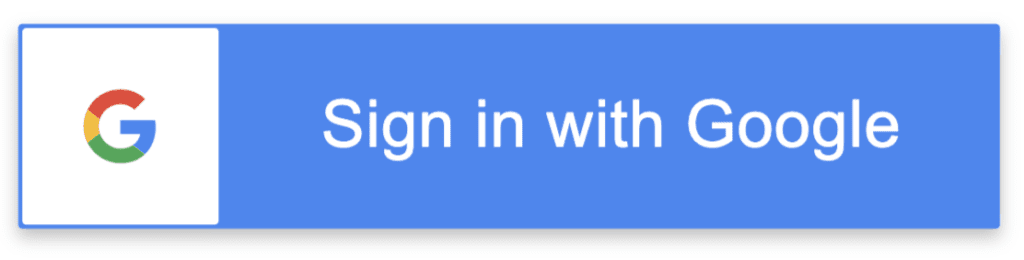
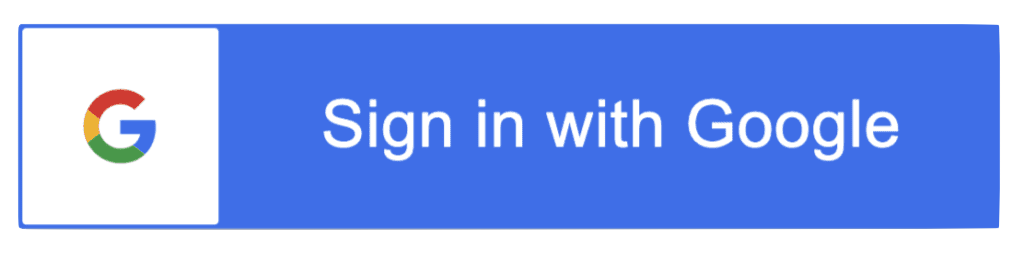
Added tentative theme to frontend

Changed region(s): [[0.0, 0.1538, 1.0, 0.9538], [0.0312, 0.0615, 0.9688, 0.0923]]

diff --git a/app/templates/signin.html b/app/templates/signin.html
@@ -1,12 +1,90 @@
-<html>
-    <body style="text-align: center;height:100%;background-color: #4285F4;">
+<!DOCTYPE html>
+<html lang="en">
+<head>
+    <meta charset="UTF-8">
+    <meta name="viewport" content="width=device-width, initial-scale=1.0">
+    <title>Task Management</title>
+    <style>
+        body {
+            font-family: Arial, sans-serif;
+            background-color: #000000;
+            color: #ffffff;
+            margin: 0;
+            padding: 0;
+            display: flex;
+            justify-content: center;
+            align-items: center;
+            height: 100vh;
+        }
 
-        <h1 style="margin-top: 10%;">
-            Hi {{ name }}!!!<br>Welcome to Google Suite Task Manager
-        </h1>
-        <a href='/logout'><button>Logout</button></a>        
-        <h1 style="margin-top: 12%;">
-            Team UMBREON
-        </h1>
-    </body>
+        .container {
+            text-align: center;
+        }
+
+        h1 {
+            font-size: 2.5rem;
+            margin-bottom: 30px;
+        }
+
+        .nav-button {
+            background-color: #ffc700;
+            color: #000000;
+            border: none;
+            padding: 15px 30px;
+            font-size: 1.2rem;
+            border-radius: 5px;
+            cursor: pointer;
+            transition: background-color 0.3s ease;
+            margin: 0 10px; 
+            text-decoration: none;
+            display: inline-block;
+        }
+
+            .nav-button:hover {
+                background-color: #ffc800;
+            }
+
+        img {
+            width: 250px;
+            vertical-align: middle;
+        }
+
+        .yellow-bar-top {
+            background-color: #ffd700;
+            height: 10px;
+            width: 100%;
+            position: absolute;
+            top: 50px;
+            left: 0;
+        }
+
+        .yellow-bar-bottom {
+            background-color: #ffd700;
+            height: 10px;
+            width: 100%;
+            position: absolute;
+            bottom: 50px;
+        }
+
+        .bottom-image {
+            position: absolute;
+            bottom: 0px;
+            left: 95%;
+            transform: translateX(-50%);
+        }
+    </style>
+</head>
+<body>
+    <div class="yellow-bar-top"></div>
+    <div class="container">
+        <h1 style="margin-top: 0%">
+            Google Suite Task Manager<br>
+            Welcome {{ name }}.
+        </h1><br><br><br>
+        <a href='/protected_area' class="nav-button">Task Dashboard</a>
+        <a href='/logout' class="nav-button">Logout</a>
+    </div>
+    <img src="umbreon.png" alt="umbreon" class="bottom-image">
+    <div class="yellow-bar-bottom"></div>
+</body>
 </html>

diff --git a/app/templates/index.html b/app/templates/index.html
@@ -1,12 +1,80 @@
-<html>
-    <body style="text-align: center;height:100%;background-color: #4285F4;">
+<!DOCTYPE html>
+<html lang="en">
+<head>
+    <meta charset="UTF-8">
+    <meta name="viewport" content="width=device-width, initial-scale=1.0">
+    <title>Task Management</title>
+    <style>
+        body {
+            font-family: Arial, sans-serif;
+            background-color: #000000;
+            color: #ffffff;
+            margin: 0;
+            padding: 0;
+            display: flex;
+            justify-content: center;
+            align-items: center;
+            height: 100vh;
+        }
 
-        <h1 style="margin-top: 10%;">
-            Hi !!!<br>Sign In to Google Suite Task Manager
-        </h1>
-        <a href='/login'><button style="margin-top: 5%;"><img src="signin.png" alt="Login with Google"></button></a>
-        <h1 style="margin-top: 12%;">
-            Team UMBREON
-        </h1>
-    </body>
+        .container {
+            text-align: center;
+        }
+
+        h1 {
+            font-size: 2.5rem;
+            margin-bottom: 30px;
+        }
+
+        .login-button {
+            background-color: #ffc700;
+            color: #000000;
+            border: none;
+            padding: 20px 20px;
+            font-size: 1.2rem;
+            border-radius: 5px;
+            cursor: pointer;
+            transition: background-color 0.3s ease;
+        }
+
+            .login-button:hover {
+                background-color: #ffc800;
+            }
+
+        img {
+            width: 250px;
+            vertical-align: middle;
+        }
+        .yellow-bar-top {
+            background-color: #ffd700;
+            height: 10px;
+            width: 100%;
+            position: absolute;
+            top: 50px;
+            left: 0;
+        }
+        .yellow-bar-bottom {
+            background-color: #ffd700;
+            height: 10px;
+            width: 100%;
+            position: absolute;
+            bottom: 50px;
+        }
+        .bottom-image {
+            position: absolute;
+            bottom: 0px;
+            left: 95%;
+            transform: translateX(-50%);
+        }
+    </style>
+</head>
+<body>
+    <div class="yellow-bar-top"></div>
+    <div class="container">
+        <h1>Google Suite Task Manager</h1>
+        <a href='/login' class="login-button"><img src="signin.png"></a>
+    </div>
+    <img src="umbreon.png" alt="umbreon" class="bottom-image">
+    <div class="yellow-bar-bottom"></div>
+</body>
 </html>
